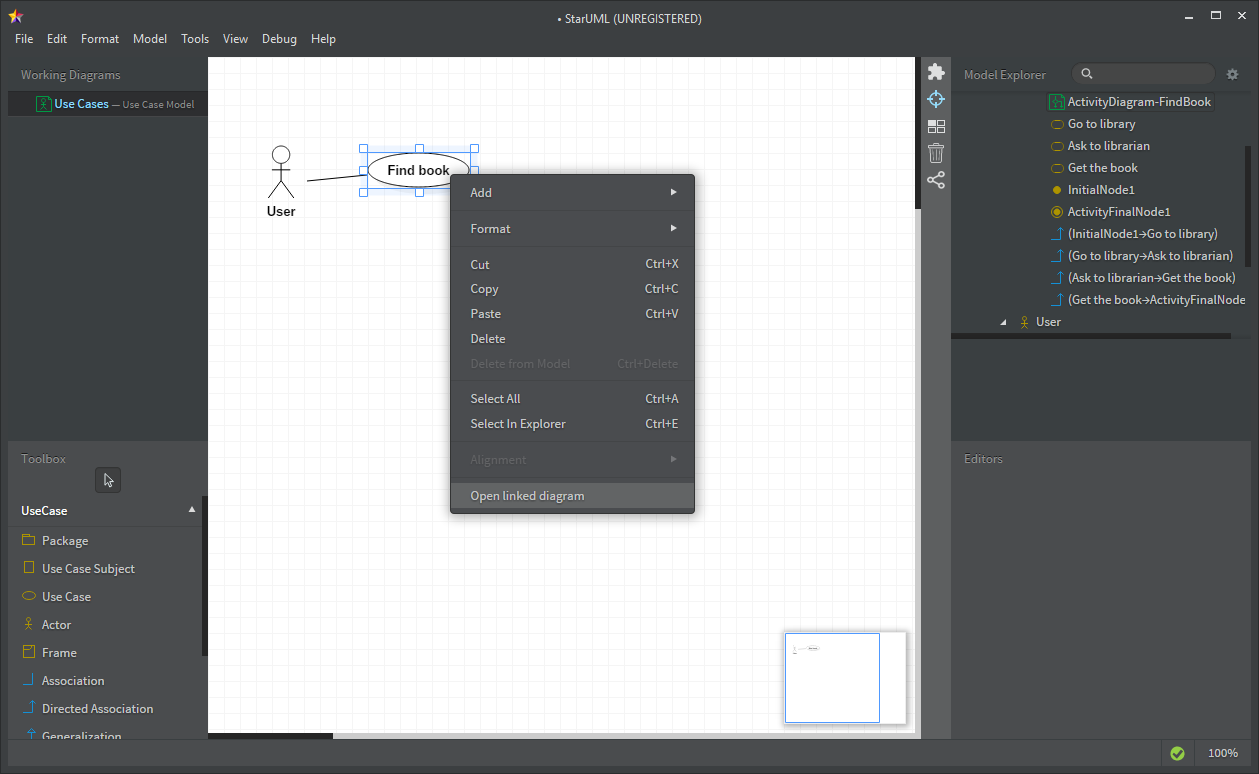
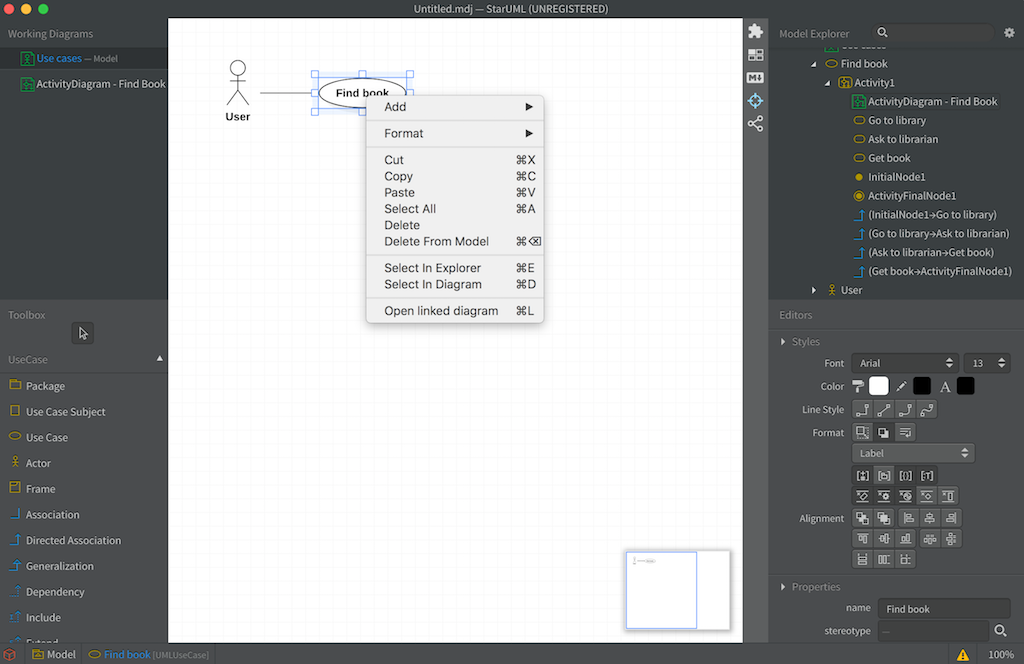
Updated to support StartUML v3

diff --git a/main.js b/main.js
@@ -1,101 +1,97 @@
 /*jslint vars: true, plusplus: true, devel: true, nomen: true, regexp: true, indent: 4, maxerr: 50 */
 /*global define, $, app, window */
 
-define(function (require, exports, module) {
-    "use strict";
+function isDefault(element)
+{
+    return element.defaultDiagram;
+}
 
-    var Repository          = app.getModule("core/Repository"),
-        DiagramManager      = app.getModule('diagrams/DiagramManager'),
-        SelectionManager    = app.getModule("engine/SelectionManager"),
-        ModelExplorerView   = app.getModule('explorer/ModelExplorerView'),
-        CommandManager      = app.getModule("command/CommandManager"),
-        DefaultMenus        = app.getModule("menu/DefaultMenus"),
-        ContextMenuManager  = app.getModule("menu/ContextMenuManager"),
-        Toast               = app.getModule("ui/Toast");
+function _handleOpenLinkedDiagram()
+{
+    var selectedModels = app.selections.getSelectedModels();
 
-    function isDefault(element) {
-        return element.defaultDiagram;
-    }
-    
-    function _handleOpenLinkedDiagram()
+    if(selectedModels.length == 0)
     {
-        if(SelectionManager.getSelectedModels().length > 1) {
-            Toast.warning("Select only one item.");
-            return;
+        app.toast.warning("No items selected.");
+        return;
+    }
+    else if(selectedModels.length > 1) {
+        app.toast.warning("Select only one item.");
+        return;
+    }
+
+    var element = app.selections.getSelected();    
+    if (element)
+    {
+        var foundDiagrams = [];
+
+        element.ownedElements.forEach(function(ele)
+        {
+            if (ele instanceof type.UMLDiagram ||
+                ele instanceof type.ERDDiagram ||
+                ele instanceof type.FCFlowchartDiagram ||
+                ele instanceof type.DFDDiagram)
+            {
+                foundDiagrams.push(ele);
+            }
+            else if(ele.ownedElements)
+            {
+                ele.ownedElements.forEach(function(innerEle)
+                {
+                    if (innerEle instanceof type.UMLDiagram ||
+                        innerEle instanceof type.ERDDiagram ||
+                        innerEle instanceof type.FCFlowchartDiagram ||
+                        innerEle instanceof type.DFDDiagram)
+                    {
+                        foundDiagrams.push(innerEle);
+                    }
+                });
+            }
+        });
+
+        if (foundDiagrams.length < 1)
+        {
+            app.toast.error("No linked diagram found.");
         }
+        else
+        {
+            var defaultDiagrams = foundDiagrams.filter(isDefault);
 
-        var element = SelectionManager.getSelected();
-        
-        // use subactivity when no ownedElements are present and subactivity is set
-        if (element.ownedElements.length < 1 && element.subactivity) {
-            element = element.subactivity;
-        }
-        
-        if (element) {
-            var foundDiagrams = [];
-
-            element.ownedElements.forEach(function(ele) {
-                if (ele instanceof type.UMLDiagram) {
-                    foundDiagrams.push(ele);
-                } else {
-                    ele.ownedElements.forEach(function(innerEle) {
-                        if (innerEle instanceof type.UMLDiagram) {
-                            foundDiagrams.push(innerEle);
-                        }
-                    });
-                }
-            });
-
-            if (foundDiagrams.length < 1) {
-                Toast.error("No linked diagram found.");
-            } else {
-                var diagram,
-                    defaultDiagrams = foundDiagrams.filter(isDefault);
-
-                // if no default diagram is set use normal diagram
-                if (defaultDiagrams.length < 1) {
-                    if (foundDiagrams.length > 1) {
-                        Toast.error("Multiple linked diagrams found. Please set one as default.");
-                    } else {
-                        diagram = foundDiagrams[0];
-                    }
-                } else {
-                    if (defaultDiagrams.length > 1) {
-                        Toast.error("Multiple linked diagrams found that are set as default.");
-                    } else {
-                        diagram = defaultDiagrams[0];
-                    }
-                }
-
-                if (diagram) {
-                    var view = diagram.ownedViews[0];
-                    if(view) {
-                        DiagramManager.selectInDiagram(view);
-                        ModelExplorerView.select(diagram, true);
-                    } else {
-                        Toast.error("No linked diagram with view found.");
-                    }
+            var openDiagram = function(diagram)
+            {
+                if (diagram)
+                {
+                    app.modelExplorer.select(diagram, true)
+                    app.diagrams.setCurrentDiagram(diagram, false);
                 }
             }
-        } else {
-            Toast.warning("Nothing selected.");
+
+            if (defaultDiagrams.length == 1)
+                openDiagram(defaultDiagrams[0]);
+            else if(foundDiagrams.length == 1)
+                openDiagram(foundDiagrams[0]);
+            else
+            {
+                var dlg = app.elementListPickerDialog.showDialog("Select a linked diagram to open", foundDiagrams).then(function ({buttonId, returnValue})
+                {
+                    if (buttonId === 'ok')
+                        openDiagram(returnValue);
+                });
+            }
+
         }
     }
-
-    /**
-     * Initialize Extension
-     */
-    function init() {
-        var CMD_OPEN_LINKED_DIAGRAM = "linkedDiagramNavigator.openLinkedDiagram";
-
-        CommandManager.register("Open linked diagram", CMD_OPEN_LINKED_DIAGRAM, _handleOpenLinkedDiagram);
-
-        var contextMenu = ContextMenuManager.getContextMenu(DefaultMenus.contextMenus.DIAGRAM);
-
-        contextMenu.addMenuDivider();
-        contextMenu.addMenuItem(CMD_OPEN_LINKED_DIAGRAM);
+    else
+    {
+        app.toast.warning("Nothing selected.");
     }
+}
 
-    // Initialize Extension
-    init();
-});
+/** Initialize Extension */
+function init()
+{
+    var CMD_OPEN_LINKED_DIAGRAM = "linked_diagram_navigator:open_linked_diagram";
+    app.commands.register(CMD_OPEN_LINKED_DIAGRAM, _handleOpenLinkedDiagram);
+}
+
+exports.init = init;

diff --git a/README.md b/README.md
@@ -1,7 +1,7 @@
 # Linked Diagram Navigator
 =================
 
-Linked Diagram Navigator for StarUML 2. This extension lets the user navigate to a diagram attached to an element with a simple right-click.
+Linked Diagram Navigator for StarUML 3. This extension lets the user navigate to a diagram attached to an element with a simple right-click.
 
 ![Linked Diagram Navigator](https://github.com/zillemarco/StarUML_LinkedDiagramNavigator/blob/master/Captures/capture_1.png?raw=true)
 ![Linked Diagram Navigator](https://github.com/zillemarco/StarUML_LinkedDiagramNavigator/blob/master/Captures/capture_2.png?raw=true)
